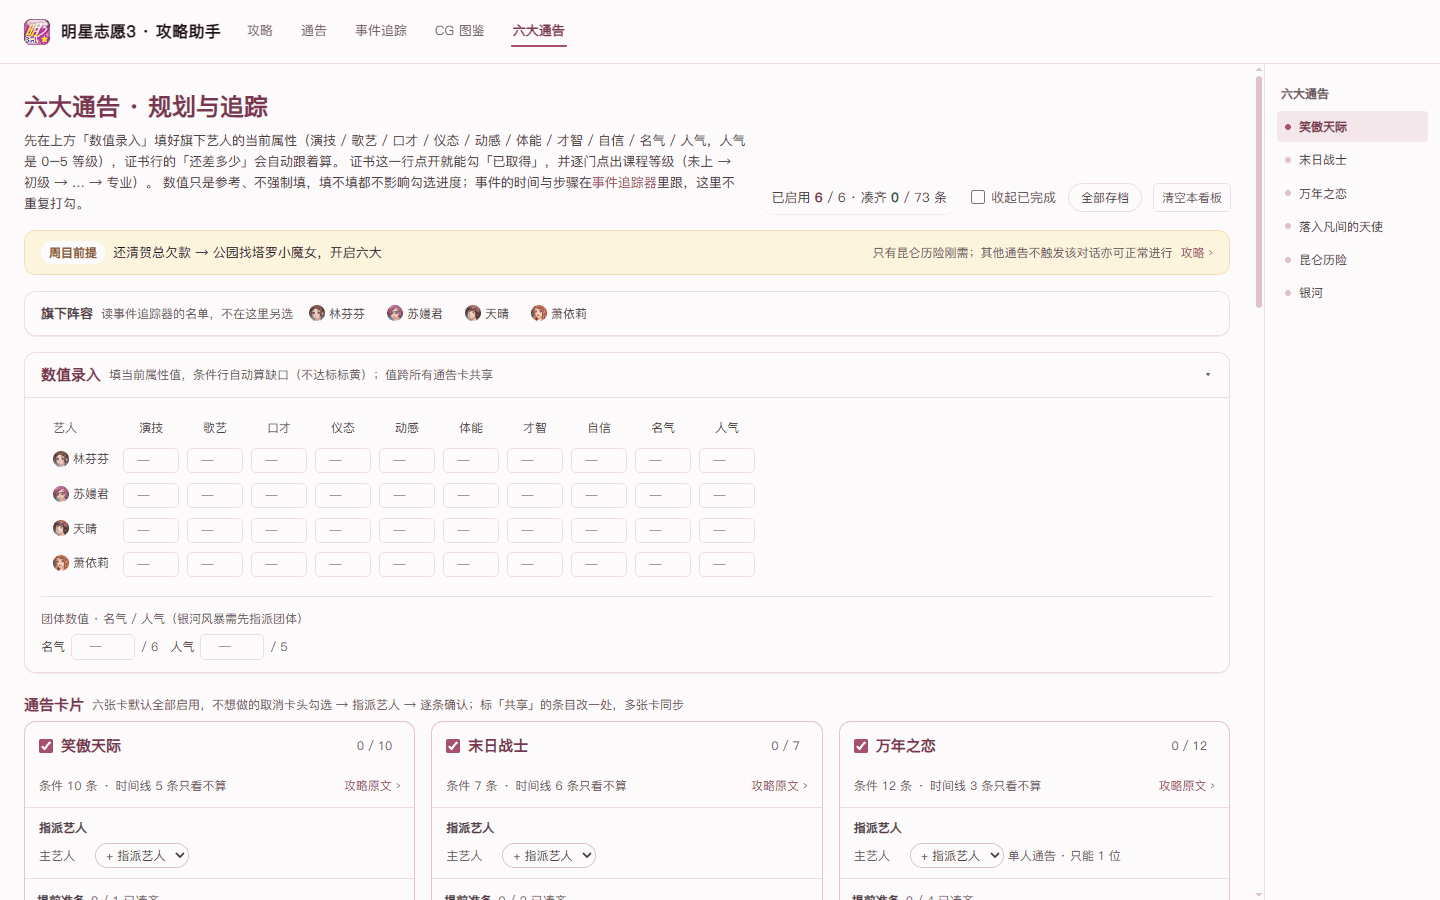
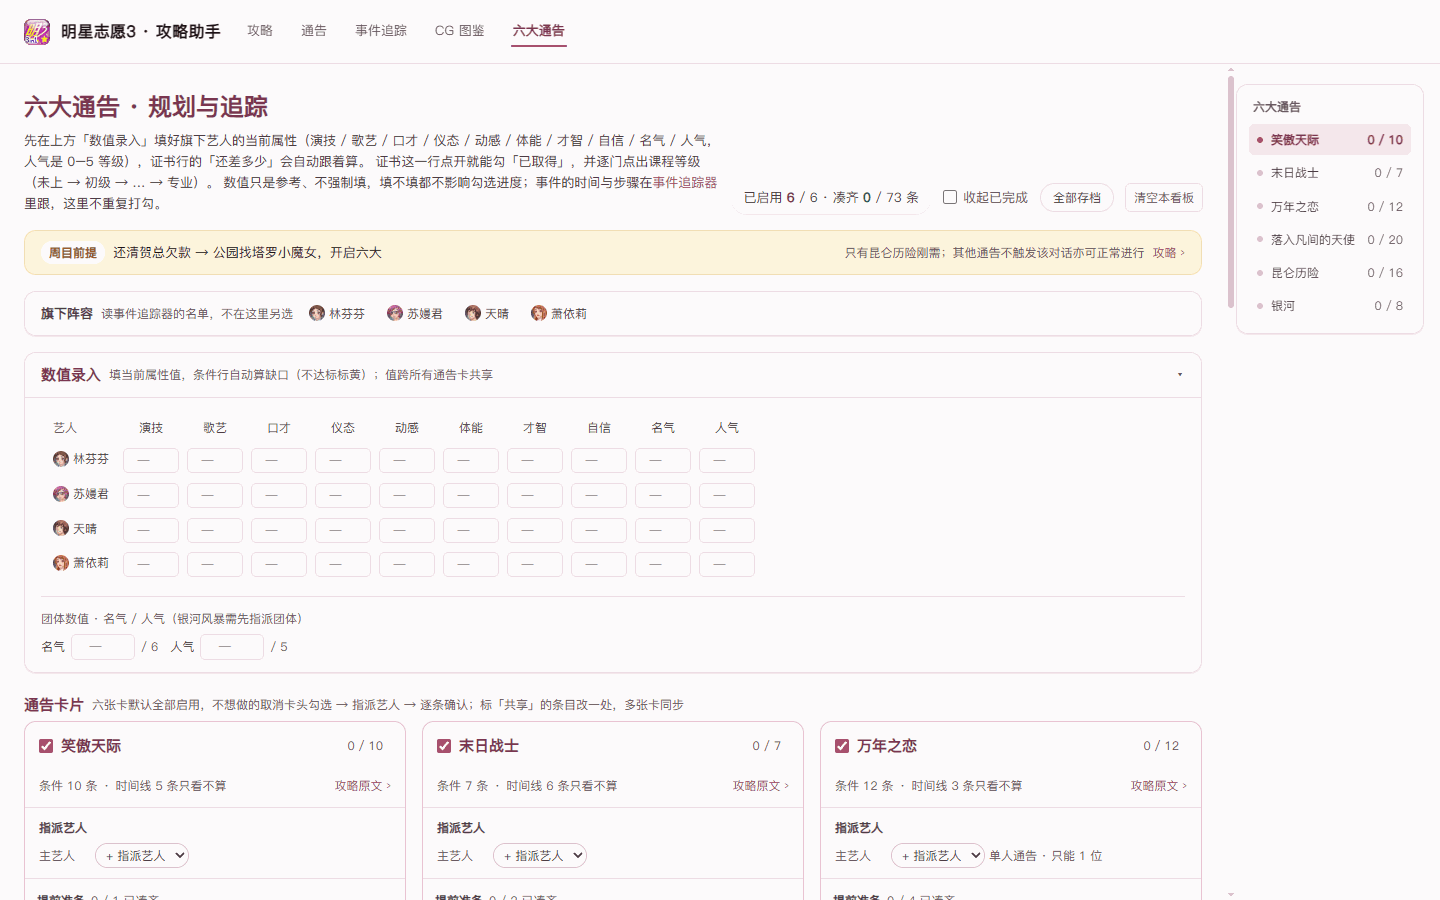
style: turn specials jump rail into a boxed panel card
Replace the full-height divider column with a rounded, bordered, shadowed
panel stuck to the top-right (content height, not full height), and
restore the per-card met/total progress right-aligned on each row.
Keeps scroll-spy + jump lock. README + docs shot updated.

diff --git a/src/components/specials/SpecialsApp.tsx b/src/components/specials/SpecialsApp.tsx
@@ -316,42 +316,51 @@ export default function SpecialsApp({ data, guide }: Props) {
         </div>
       </div>
 
-        <nav
-          data-specials-rail
-          aria-label="六大通告跳转"
-          className="hidden w-[176px] shrink-0 border-l border-line px-3 py-5 min-[1120px]:block"
-        >
-          <p className="px-1 text-ui-2xs font-semibold text-ink-faint">六大通告</p>
-          <ul className="mt-2 flex flex-col gap-0.5">
-            {notices.map((notice) => {
-              const isActive = activeNotice === notice.id;
-              return (
-                <li key={notice.id}>
-                  <button
-                    type="button"
-                    data-specials-rail-item={notice.id}
-                    aria-current={isActive ? 'true' : undefined}
-                    onClick={() => jumpToNotice(notice.id)}
-                    className={cn(
-                      'flex w-full items-center gap-2 rounded-ui-xs px-2 py-1.5 text-left text-ui-2xs transition-colors',
-                      isActive
-                        ? 'bg-brand-soft font-semibold text-brand-strong'
-                        : 'text-ink-muted hover:bg-surface-soft hover:text-brand-strong',
-                    )}
-                  >
-                    <span
+        <aside className="hidden w-[204px] shrink-0 py-5 pr-4 min-[1120px]:block">
+          <nav
+            data-specials-rail
+            aria-label="六大通告跳转"
+            className="sticky top-0 rounded-ui-md border border-line bg-surface p-3 shadow-soft"
+          >
+            <p className="px-1 text-ui-2xs font-semibold text-ink-faint">六大通告</p>
+            <ul className="mt-2 flex flex-col gap-0.5">
+              {notices.map((notice) => {
+                const isActive = activeNotice === notice.id;
+                const isEnabled = state.enabled.includes(notice.id);
+                const prog = noticeProgress(evaluation.byNotice[notice.id] ?? []);
+                return (
+                  <li key={notice.id}>
+                    <button
+                      type="button"
+                      data-specials-rail-item={notice.id}
+                      aria-current={isActive ? 'true' : undefined}
+                      onClick={() => jumpToNotice(notice.id)}
                       className={cn(
-                        'h-1.5 w-1.5 shrink-0 rounded-full',
-                        isActive ? 'bg-brand' : 'bg-line-strong',
+                        'flex w-full items-center gap-2 rounded-ui-xs px-2 py-1.5 text-left text-ui-2xs transition-colors',
+                        isActive
+                          ? 'bg-brand-soft font-semibold text-brand-strong'
+                          : 'text-ink-muted hover:bg-surface-soft hover:text-brand-strong',
                       )}
-                    />
-                    {notice.title}
-                  </button>
-                </li>
-              );
-            })}
-          </ul>
-        </nav>
+                    >
+                      <span
+                        className={cn(
+                          'h-1.5 w-1.5 shrink-0 rounded-full',
+                          isActive ? 'bg-brand' : isEnabled ? 'bg-line-strong' : 'bg-line',
+                        )}
+                      />
+                      <span className="min-w-0 flex-1 truncate">{notice.title}</span>
+                      {isEnabled && (
+                        <span className={cn('shrink-0 tabular-nums', isActive ? 'text-brand-strong' : 'text-ink-faint')}>
+                          {prog.met} / {prog.total}
+                        </span>
+                      )}
+                    </button>
+                  </li>
+                );
+              })}
+            </ul>
+          </nav>
+        </aside>
       </div>
 
       {archiveOpen && (

diff --git a/README.md b/README.md
@@ -132,7 +132,7 @@ npm run test:guide  # 数据校验
   - 同名证书 / 公司数值改一处多卡同步，带「共享」徽标
   - 时间线备注只读、零状态，每条跳回事件追踪器
   - 进度独立存档 `guide.specials.v1`，与追踪器、CG 图鉴互不干扰；并已并入「全部存档」导出/导入，可与另外两块一起多端迁移
-  - 右侧新增「六大通告」跳转导航（≥1200px 显示）：列出六张卡入口，滚动时高亮当前卡片（越过容器上沿的最后一张），点击平滑滚到对应卡片；启用时显示各卡 `met/total`
+  - 右侧「六大通告」跳转面板（≥1120px 显示）：一块圆角卡片列出六张卡入口，滚动时高亮当前卡片（越过容器上沿的最后一张），点击平滑滚到对应卡；启用时每条右对齐显示 `met / total` 进度
 - 数据管线新增 `sources/special-notices.tsv` → `scripts/extract_specials.py` → `public/data/specials.json`（73 条条件 + 28 条只读备注，深链逐条对过攻略事件号）
 
 ### v1.4.2
